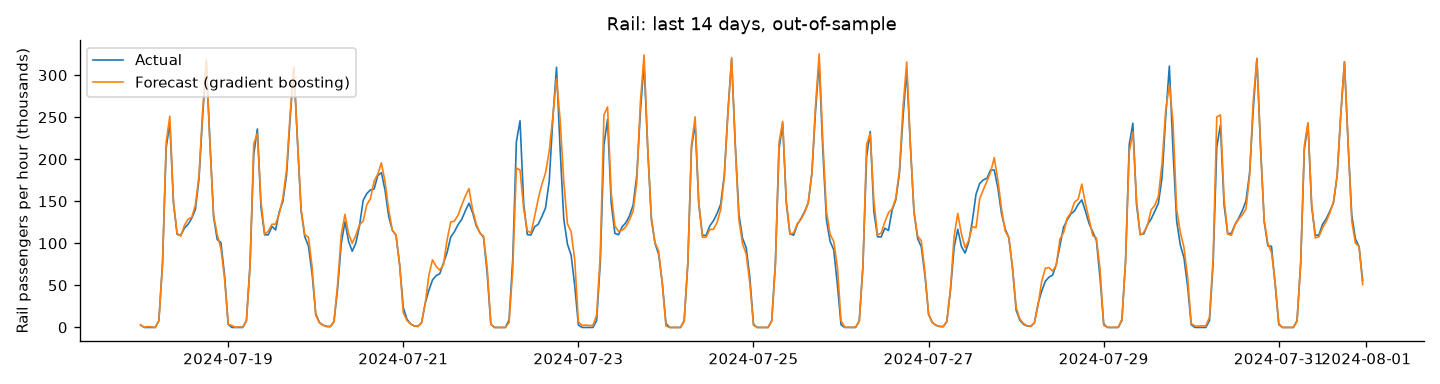
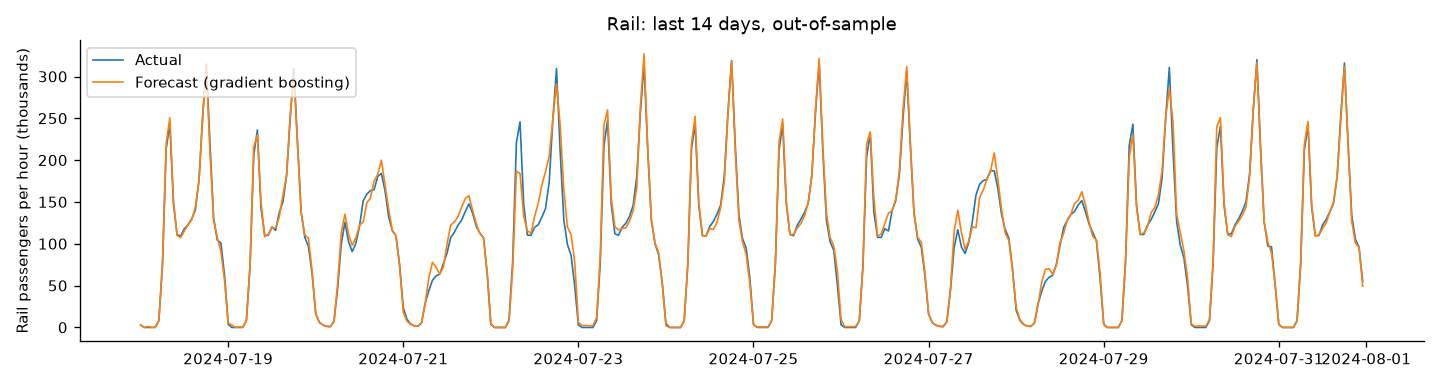
Update analysis reports [skip ci]

diff --git a/reports/results.md b/reports/results.md
@@ -15,9 +15,9 @@ Working days only (Mon–Fri, excluding holiday eves; rain and holiday tests als
 
 | Mode | Rain effect | Public-holiday effect | School-break effect |
 |---|---|---|---|
-| rail | -4.0% (95% CI -6.4% to -1.5%, p=0.005, significant; n=22 vs 57) | -27.4% (95% CI -34.3% to -19.7%, p=0.000, significant; n=10 vs 102) | -17.6% (95% CI -20.3% to -15.2%, p=0.000, significant; n=41 vs 102) |
-| road | -4.3% (95% CI -6.2% to -2.3%, p=0.000, significant; n=22 vs 57) | -35.0% (95% CI -39.5% to -29.6%, p=0.000, significant; n=10 vs 102) | -21.2% (95% CI -23.8% to -18.8%, p=0.000, significant; n=41 vs 102) |
-| sea | -17.9% (95% CI -24.7% to -10.8%, p=0.000, significant; n=22 vs 57) | +76.9% (95% CI +40.8% to +107.4%, p=0.000, significant; n=10 vs 102) | +2.2% (95% CI -2.5% to +6.9%, p=0.323, not significant; n=41 vs 102) |
+| rail | -4.0% (95% CI -6.4% to -1.5%, p=0.005, significant; n=22 vs 57) | -27.4% (95% CI -34.3% to -19.7%, p=0.000, significant; n=10 vs 102) | -17.0% (95% CI -19.4% to -14.8%, p=0.000, significant; n=40 vs 102) |
+| road | -4.3% (95% CI -6.2% to -2.3%, p=0.000, significant; n=22 vs 57) | -35.0% (95% CI -39.5% to -29.6%, p=0.000, significant; n=10 vs 102) | -20.6% (95% CI -23.0% to -18.4%, p=0.000, significant; n=40 vs 102) |
+| sea | -17.9% (95% CI -24.7% to -10.8%, p=0.000, significant; n=22 vs 57) | +76.9% (95% CI +40.8% to +107.4%, p=0.000, significant; n=10 vs 102) | +2.4% (95% CI -2.3% to +7.2%, p=0.260, not significant; n=40 vs 102) |
 
 ![Effects](figures/effects.png)
 
@@ -29,18 +29,18 @@ Expanding-window walk-forward validation, 4 folds × 14 days. All lag features e
 
 | model                      |     MAE |   sMAPE |   WAPE |   WAPE vs naive |
 |:---------------------------|--------:|--------:|-------:|----------------:|
-| XGBoost                    | 11321.5 |   32.47 |  10.35 |          -25.01 |
-| Gradient boosting          | 11781.6 |   35.47 |  10.75 |          -22.09 |
-| Ridge                      | 14170.9 |   47.01 |  12.97 |           -6.05 |
+| Gradient boosting          | 11070   |   33.55 |  10.07 |          -27.06 |
+| XGBoost                    | 11057.1 |   30.96 |  10.1  |          -26.84 |
+| Ridge                      | 14018.2 |   46.2  |  12.84 |           -6.98 |
 | Seasonal naive (last week) | 15109.4 |   23.39 |  13.8  |            0    |
 
 ### Road (bus, metrobus)
 
 | model                      |     MAE |   sMAPE |   WAPE |   WAPE vs naive |
 |:---------------------------|--------:|--------:|-------:|----------------:|
-| Gradient boosting          | 11756.3 |   20.72 |   9.04 |          -30.99 |
-| XGBoost                    | 11785.6 |   22.16 |   9.07 |          -30.69 |
-| Ridge                      | 15979.2 |   42.3  |  12.27 |           -6.27 |
+| Gradient boosting          | 11456.6 |   19.55 |   8.81 |          -32.73 |
+| XGBoost                    | 11564.8 |   20.48 |   8.9  |          -32.06 |
+| Ridge                      | 16046.2 |   42.62 |  12.33 |           -5.86 |
 | Seasonal naive (last week) | 17051.2 |   13.32 |  13.09 |            0    |
 
 ![Forecast](figures/forecast_rail.png)
